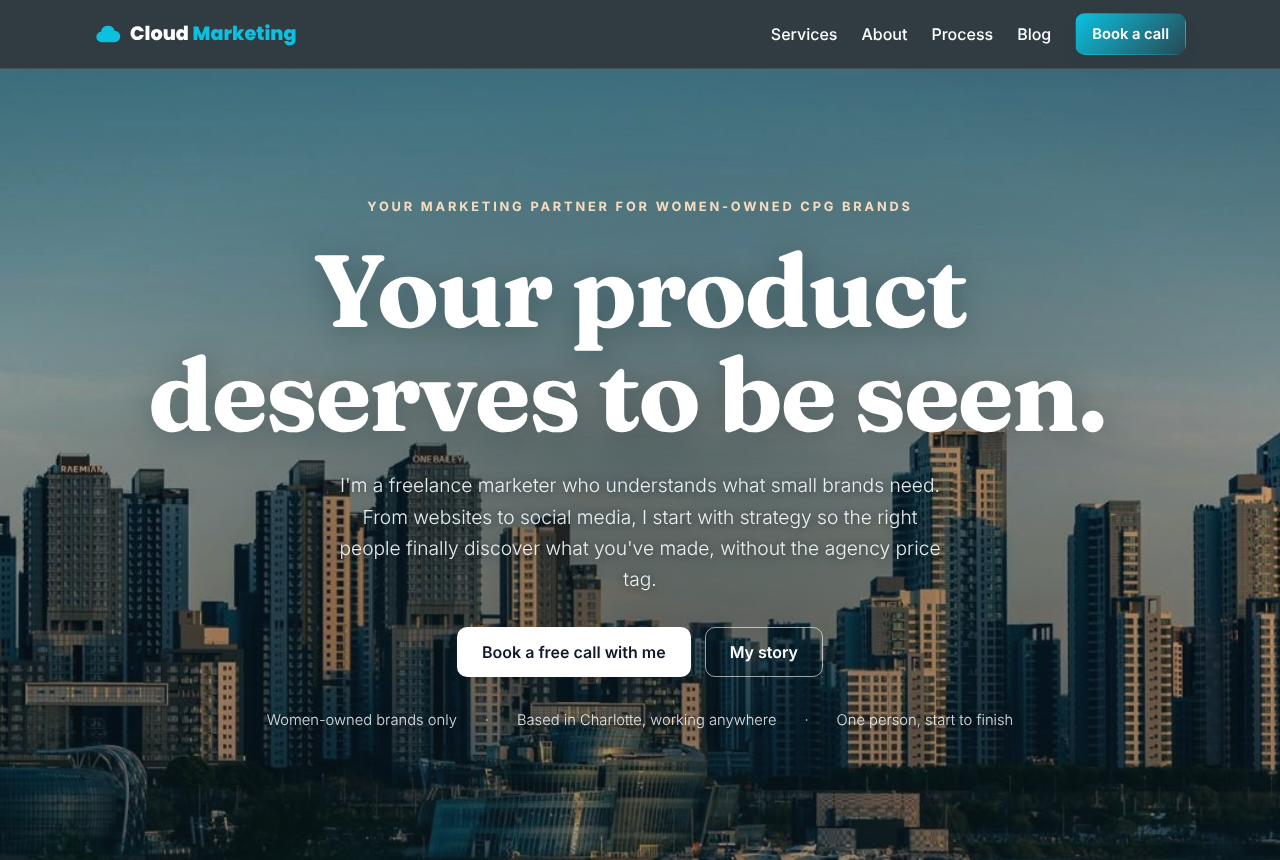
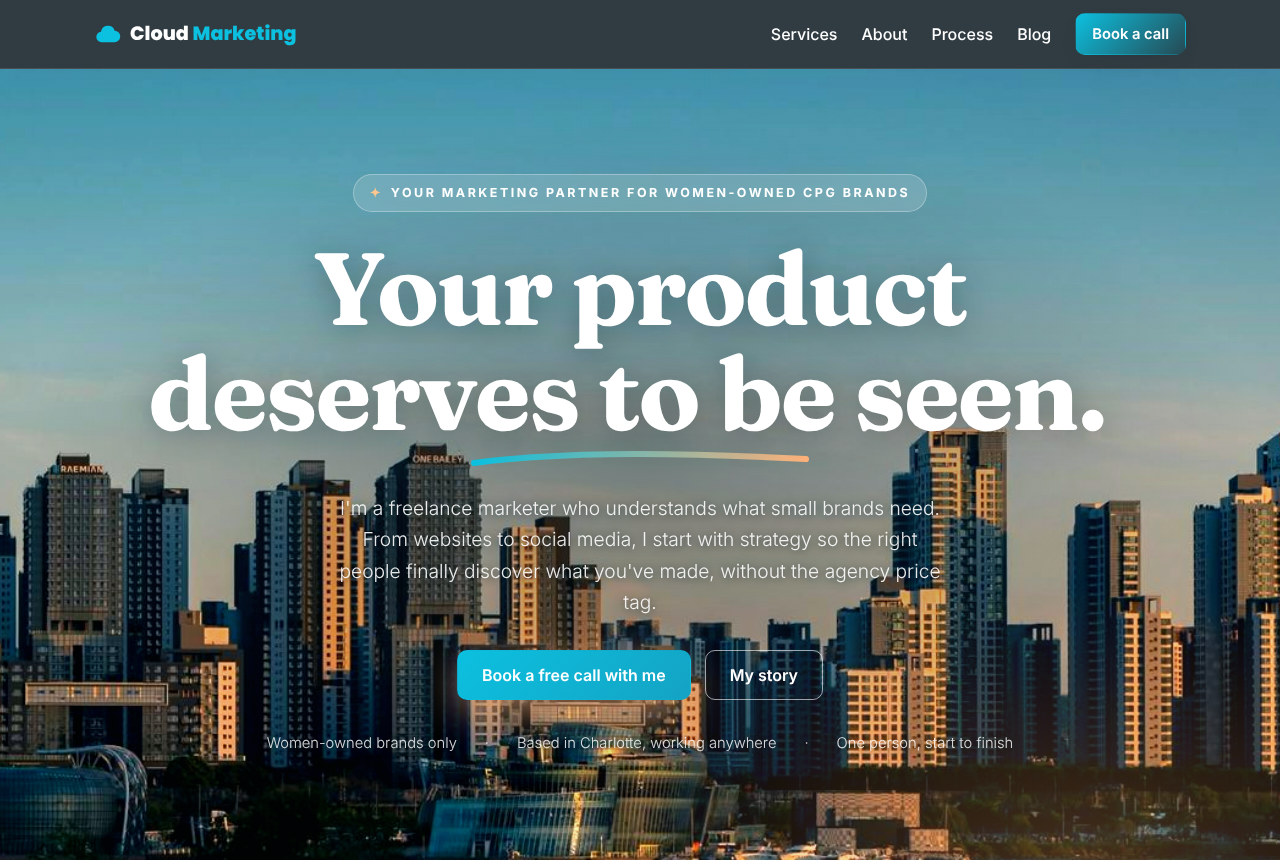
Hero: brighter photo, golden glow, swoosh underline, glowing teal call button
Claude-Session: https://claude.ai/code/session_01BS6Hv8jWvS9UUisMcfmDfK

diff --git a/components/Hero.tsx b/components/Hero.tsx
@@ -11,22 +11,43 @@ export default function Hero() {
         className="hero-photo absolute inset-0 z-0 h-full w-full object-cover object-bottom"
       />
 
-      {/* Gentle teal shade so the text reads over the buildings */}
+      {/* Light shade behind the text, plus a warm golden-hour glow */}
       <div
-        className="absolute inset-0 z-[1] bg-[radial-gradient(ellipse_70%_60%_at_50%_50%,rgba(14,40,48,0.45),rgba(14,40,48,0.15)_75%),linear-gradient(180deg,rgba(14,40,48,0.25),rgba(14,40,48,0)_40%,rgba(14,40,48,0.35))]"
+        className="absolute inset-0 z-[1] bg-[radial-gradient(ellipse_65%_55%_at_50%_48%,rgba(14,40,48,0.4),rgba(14,40,48,0.05)_75%),radial-gradient(ellipse_60%_50%_at_85%_100%,rgba(255,168,92,0.28),transparent_70%),linear-gradient(180deg,rgba(14,40,48,0.15),rgba(14,40,48,0)_35%)]"
         aria-hidden="true"
       />
 
       <div className="container-x relative z-[2] flex flex-col items-center text-center">
-        <p className="anim-up mb-5 text-[0.8rem] font-bold uppercase tracking-[0.22em] text-[#f6dcc0]">
+        <p className="anim-up mb-6 inline-flex items-center gap-2 rounded-full border border-white/30 bg-white/15 px-4 py-2 text-[0.78rem] font-bold uppercase tracking-[0.2em] text-white backdrop-blur-md">
+          <span className="text-[#ffc78f]" aria-hidden="true">✦</span>
           Your marketing partner for women-owned CPG brands
         </p>
         <h1
-          className="anim-up font-display mx-auto mb-6 max-w-[16ch] text-[clamp(3.2rem,8vw,6.4rem)] font-bold leading-[1.02] tracking-[-0.02em] text-white [text-shadow:0_4px_30px_rgba(14,40,48,0.35)]"
+          className="anim-up font-display mx-auto mb-4 max-w-[16ch] text-[clamp(3.2rem,8vw,6.4rem)] font-bold leading-[1.02] tracking-[-0.02em] text-white [text-shadow:0_4px_30px_rgba(14,40,48,0.35)]"
           style={{ animationDelay: "80ms" }}
         >
           <TypedText text="Your product deserves to be seen." speed={55} />
         </h1>
+        {/* Hand-drawn swoosh that draws itself once the headline is typed */}
+        <svg
+          className="hero-swoosh -mt-3 mb-6 h-5 w-[min(340px,60vw)]"
+          viewBox="0 0 340 20"
+          fill="none"
+          aria-hidden="true"
+        >
+          <defs>
+            <linearGradient id="swoosh" x1="0" x2="1">
+              <stop offset="0" stopColor="#0cc0df" />
+              <stop offset="1" stopColor="#ffb27a" />
+            </linearGradient>
+          </defs>
+          <path
+            d="M4 14 C 80 4, 180 2, 336 10"
+            stroke="url(#swoosh)"
+            strokeWidth="6"
+            strokeLinecap="round"
+          />
+        </svg>
         <p
           className="anim-up mx-auto max-w-[52ch] text-[1.2rem] leading-relaxed text-white/90 [text-shadow:0_1px_10px_rgba(14,40,48,0.75)]"
           style={{ animationDelay: "160ms" }}
@@ -40,7 +61,7 @@ export default function Hero() {
           className="anim-up my-8 flex flex-wrap justify-center gap-3.5"
           style={{ animationDelay: "240ms" }}
         >
-          <a href="/contact" className="btn bg-white text-ink shadow-soft hover:bg-white">
+          <a href="/contact" className="btn hero-cta text-white">
             Book a free call with me
           </a>
           <a href="/about" className="btn border-white/60 bg-transparent text-white hover:bg-white/10">

diff --git a/app/globals.css b/app/globals.css
@@ -122,8 +122,8 @@ html {
 .hero-photo {
   opacity: 0;
   transform: translateY(24px);
-  /* The photo's own sky and natural colors, kept sharp */
-  filter: saturate(1.05);
+  /* The photo's own sky, with its colors turned up */
+  filter: saturate(1.4) brightness(1.1) contrast(1.06);
   animation: heroPhotoIn 2.2s cubic-bezier(0.21, 0.6, 0.35, 1) 0.3s forwards;
 }
 @keyframes heroPhotoIn {
@@ -131,6 +131,32 @@ html {
     opacity: 1;
     transform: none;
   }
+}
+
+/* Swoosh under the hero headline draws in after the typing finishes */
+.hero-swoosh path {
+  stroke-dasharray: 340;
+  stroke-dashoffset: 340;
+  animation: swooshDraw 0.9s cubic-bezier(0.65, 0, 0.35, 1) 2.3s forwards;
+}
+@keyframes swooshDraw {
+  to {
+    stroke-dashoffset: 0;
+  }
+}
+
+/* Bright call-to-action with a soft pulsing glow */
+.hero-cta {
+  background: linear-gradient(135deg, #0cc0df, #14a3c4);
+  box-shadow: 0 10px 30px -8px rgba(12, 192, 223, 0.7);
+  animation: ctaGlow 2.8s ease-in-out 3s infinite;
+}
+.hero-cta:hover {
+  background: linear-gradient(135deg, #22d3ee, #0cc0df);
+}
+@keyframes ctaGlow {
+  0%, 100% { box-shadow: 0 10px 30px -8px rgba(12, 192, 223, 0.7); }
+  50% { box-shadow: 0 10px 40px -4px rgba(255, 178, 122, 0.75); }
 }
 .hero-clouds .cloud {
   position: absolute;
@@ -236,6 +262,8 @@ html {
   .bar,
   .hero-aurora,
   .hero-photo,
+  .hero-swoosh path,
+  .hero-cta,
   .hero-clouds .cloud,
   .typed-caret {
     animation: none !important;
@@ -246,6 +274,9 @@ html {
 }
 
 @media (prefers-reduced-motion: reduce) {
+  .hero-swoosh path {
+    stroke-dashoffset: 0 !important;
+  }
   .hero-photo {
     opacity: 1 !important;
   }
